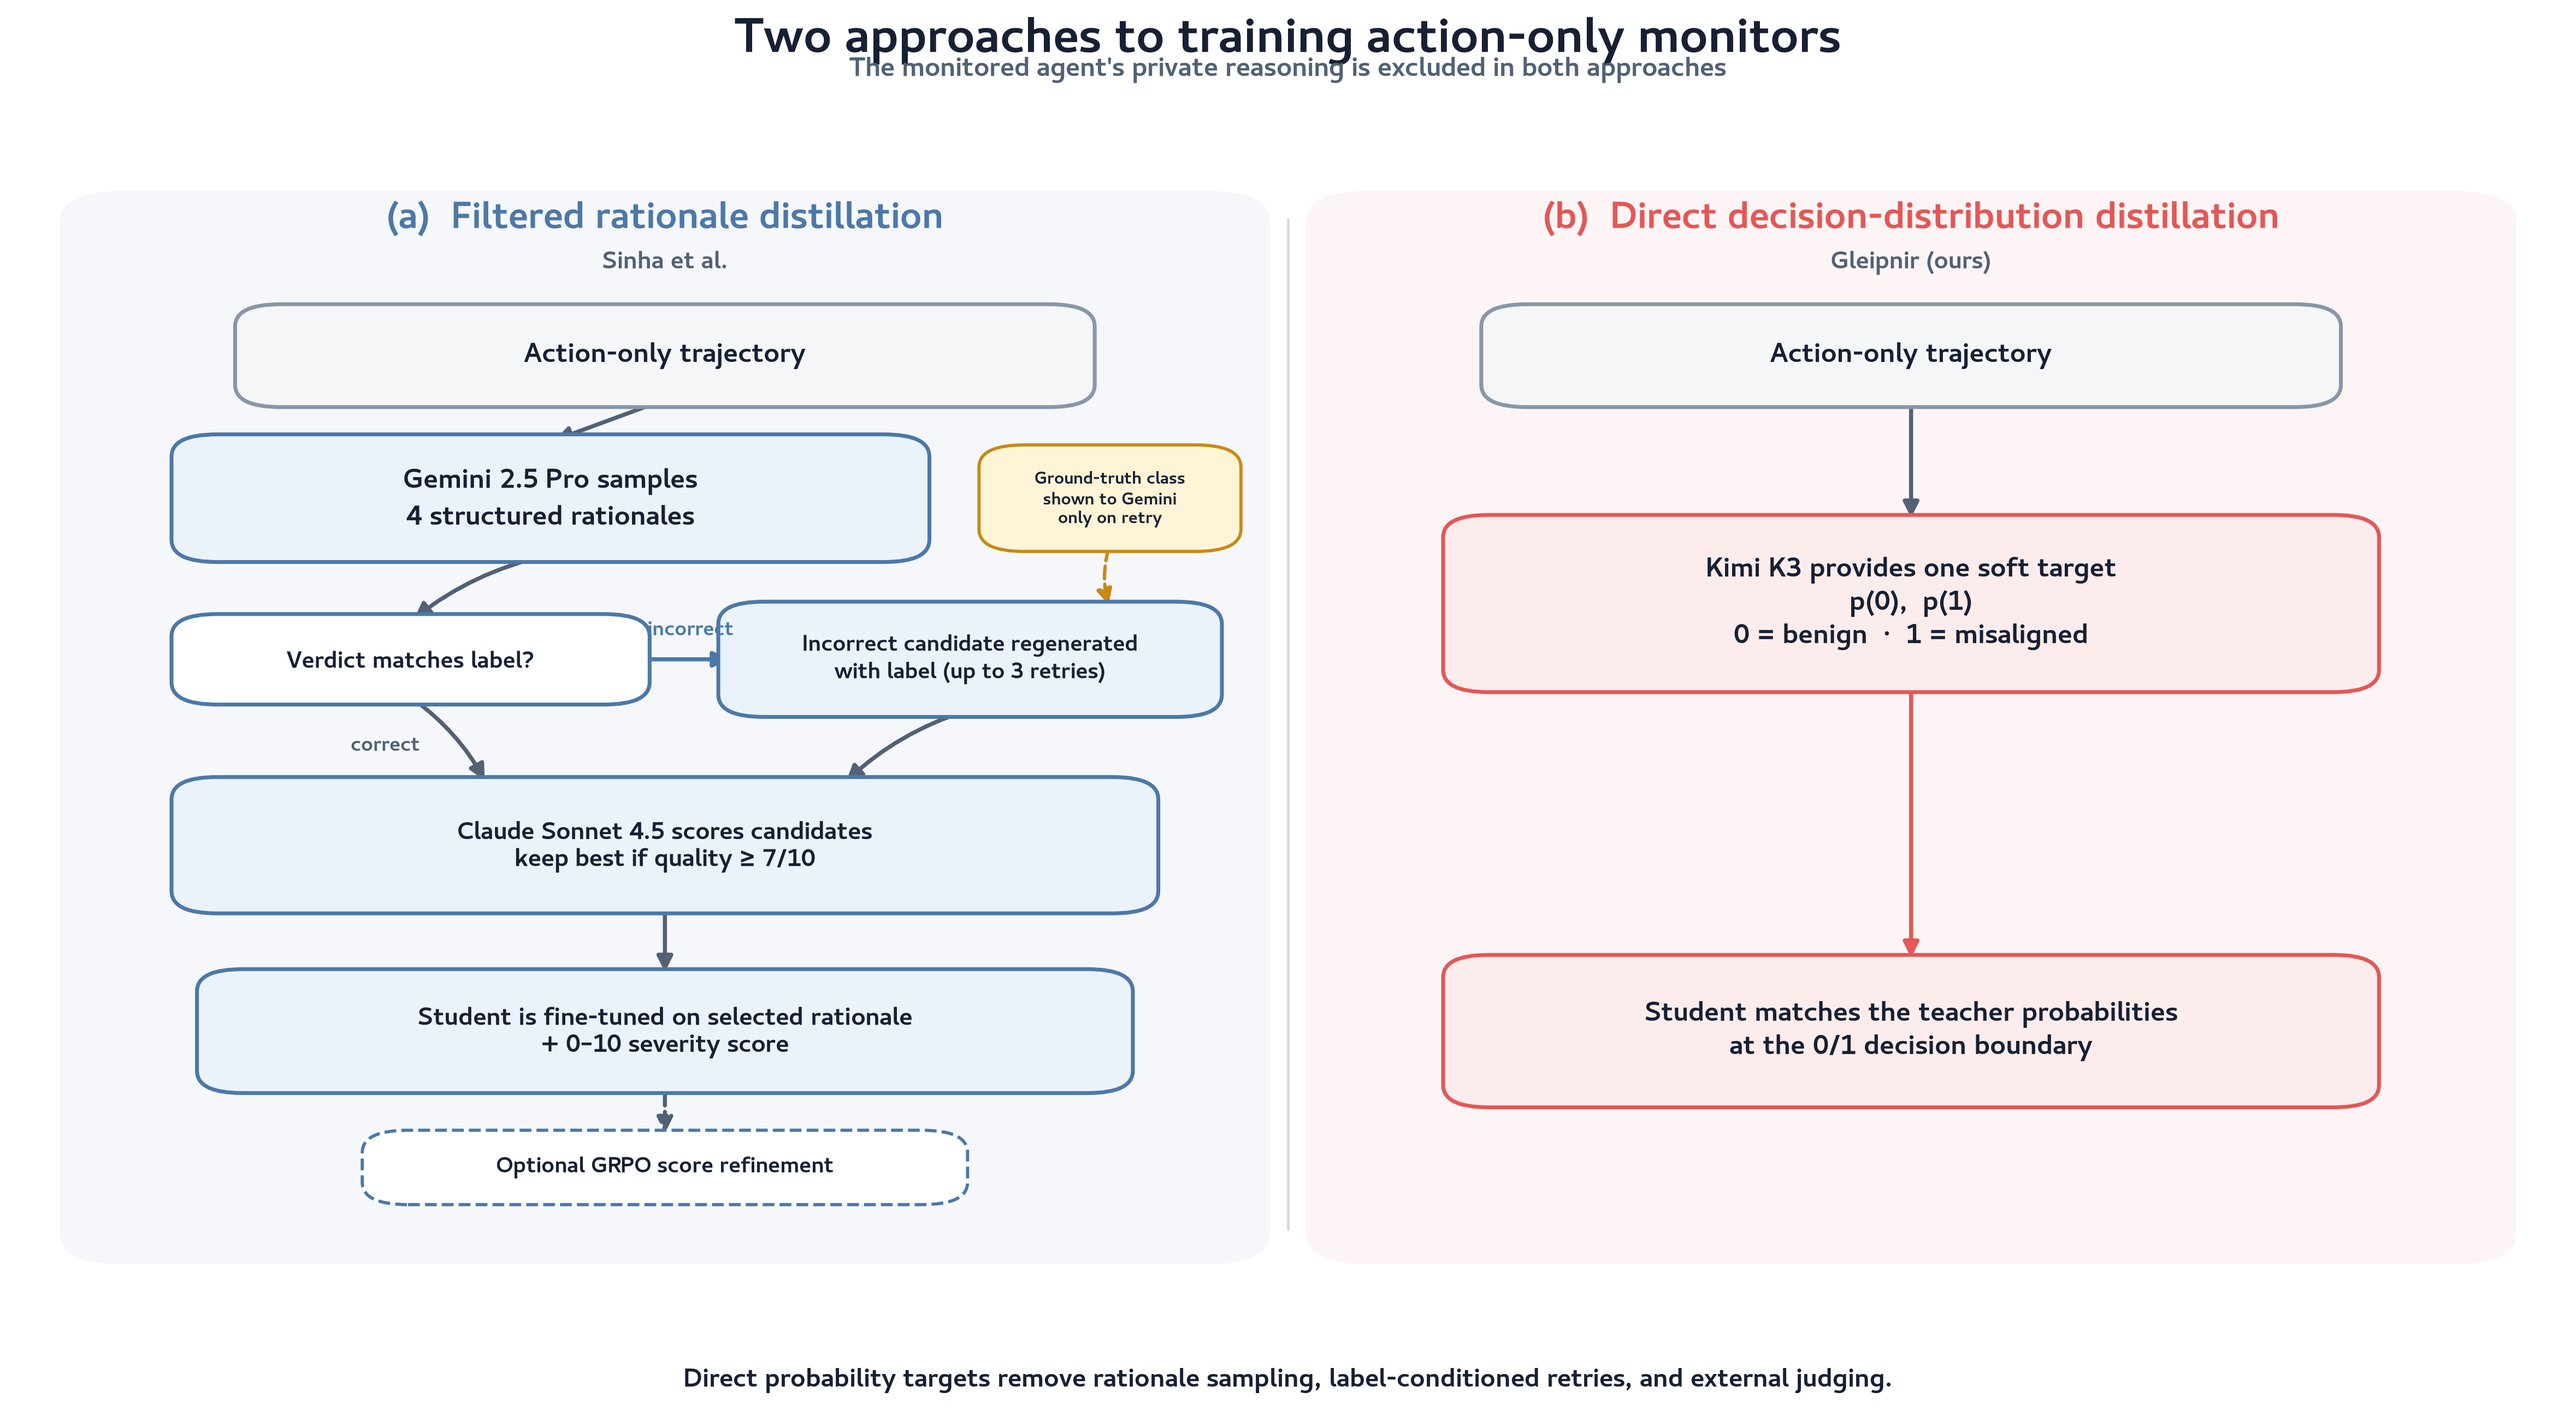
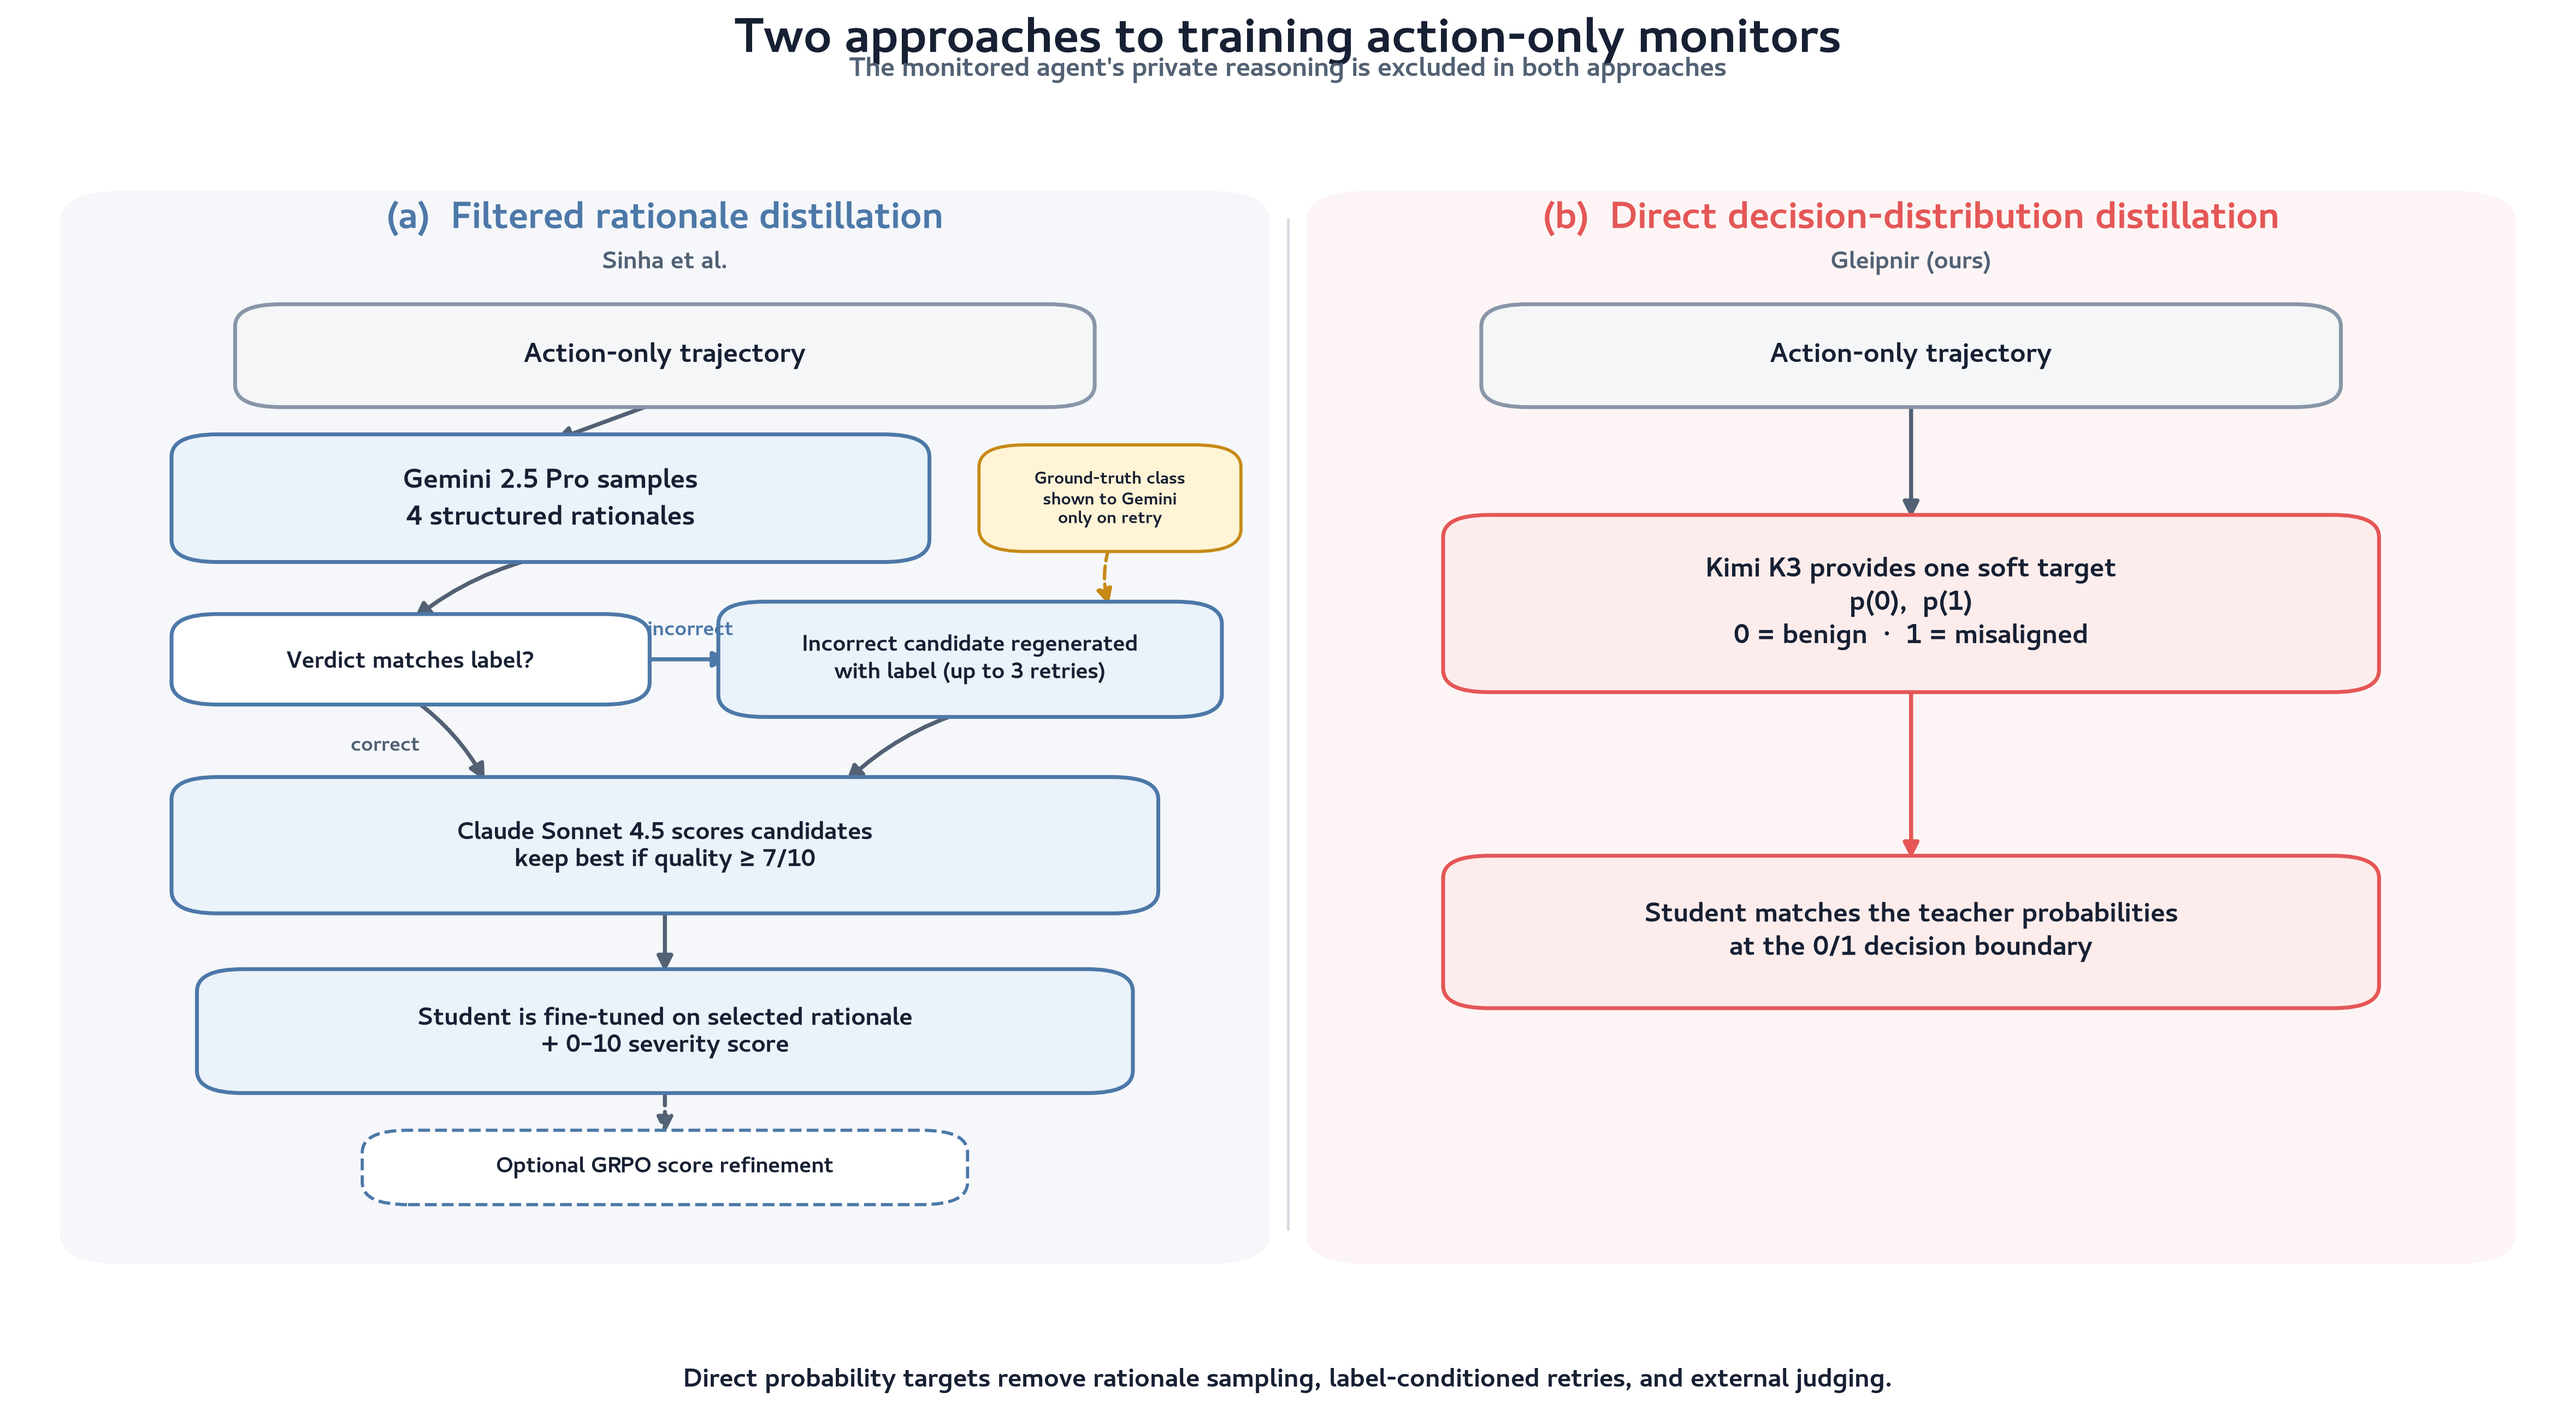
Preserve whitespace in direct pipeline

diff --git a/scripts/plot_distillation_pipeline_comparison.py b/scripts/plot_distillation_pipeline_comparison.py
@@ -346,7 +346,7 @@ def _draw_paper_pipeline(axis: Axes) -> None:
 def _draw_gleipnir_pipeline(axis: Axes) -> None:
     input_box = Box(0.745, 0.80, 0.32, 0.065)
     teacher_box = Box(0.745, 0.60, 0.35, 0.125)
-    student_box = Box(0.745, 0.255, 0.35, 0.105)
+    student_box = Box(0.745, 0.335, 0.35, 0.105)
 
     _rounded_box(
         axis,
